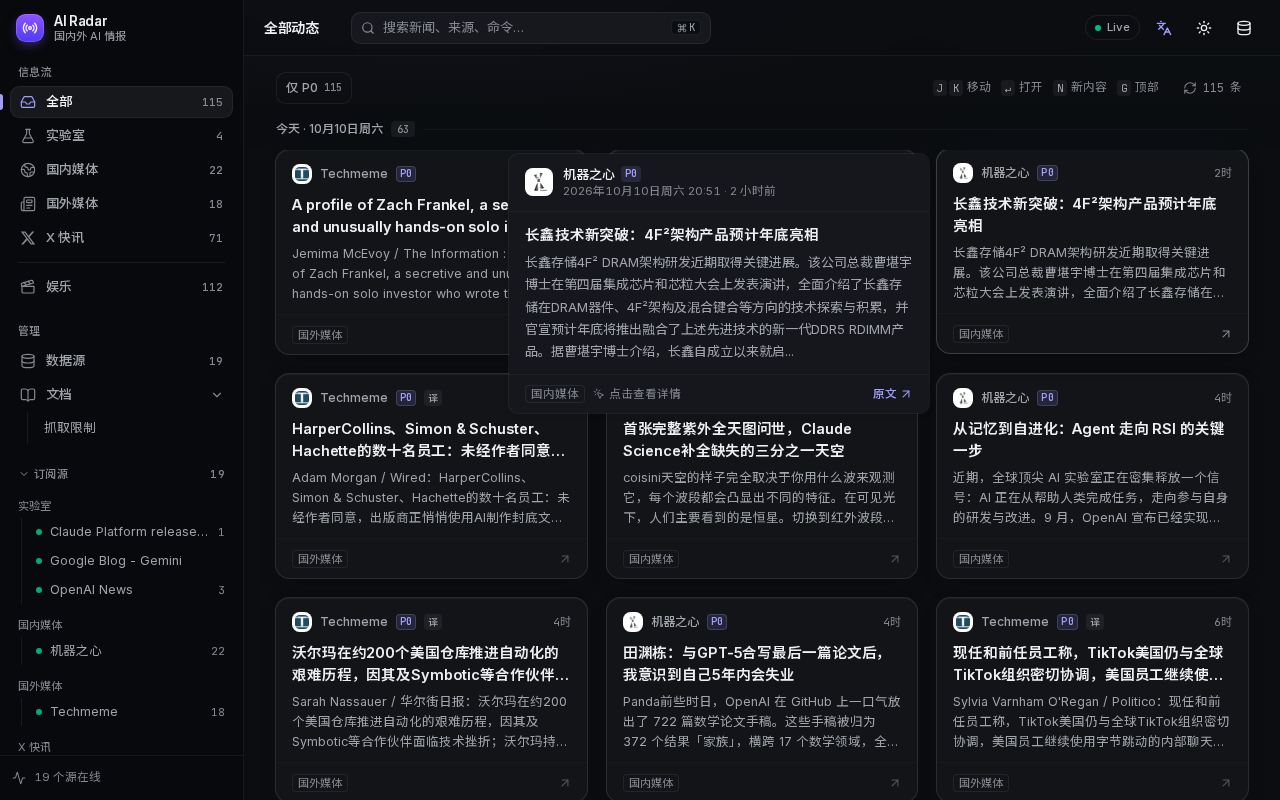
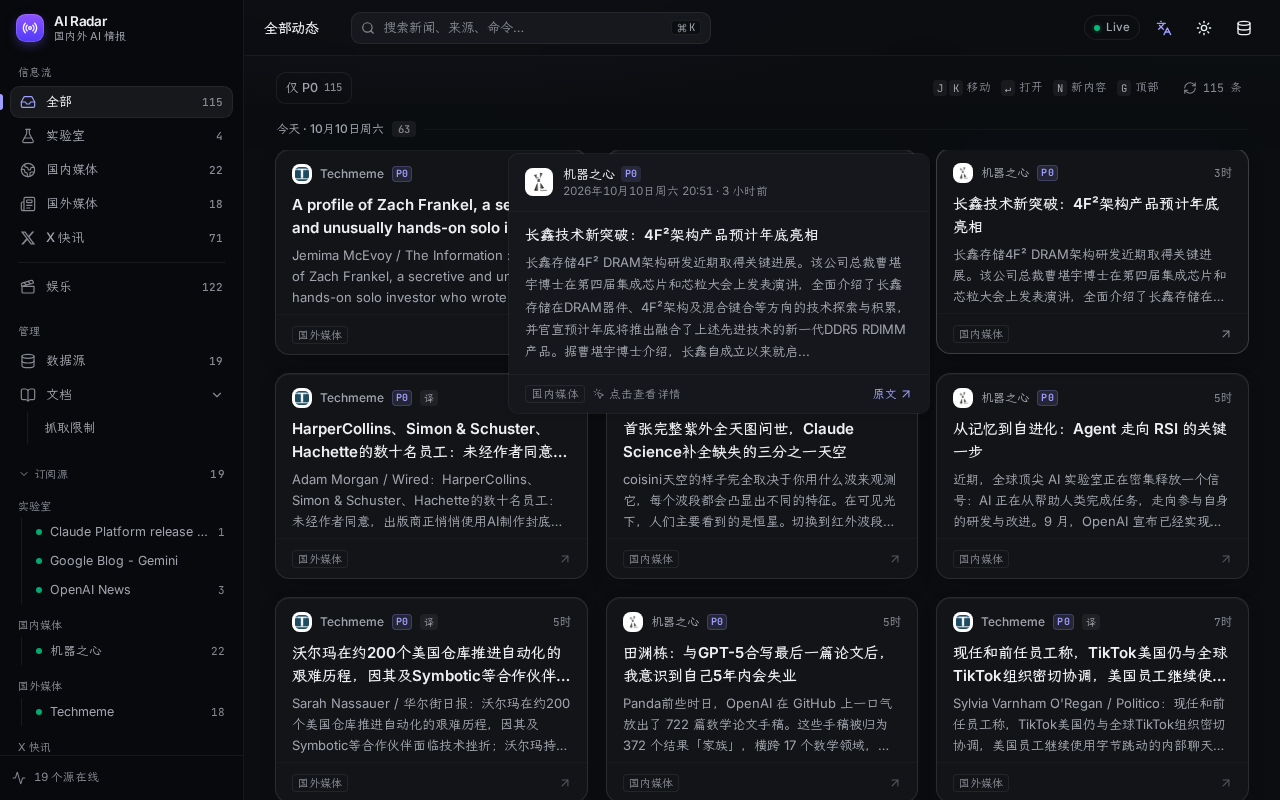
fonts: switch CJK font to 霞鹜文楷 LXGW WenKai (Regular + Medium via npm)

diff --git a/src/components/Feed.tsx b/src/components/Feed.tsx
@@ -66,17 +66,17 @@ const ItemCard = memo(function ItemCard({ it, active, fresh, read, onOpen, hover
       </div>
       <div className="min-h-0 flex-1 overflow-hidden px-4">
         {x ? (
-          <p className={cn("line-clamp-5 break-words [overflow-wrap:anywhere] text-[13.5px] leading-[1.6]", linkOnly ? "text-faint" : read ? "text-muted-foreground" : "text-foreground/90")}>
+          <p className={cn("line-clamp-5 break-words [overflow-wrap:anywhere] text-[14px] leading-[1.6]", linkOnly ? "text-faint" : read ? "text-muted-foreground" : "text-foreground/90")}>
             {linkOnly ? `分享了一个链接 · ${t.replace(/^https?:\/\/(www\.)?/, "").split("/")[0]}` : t}
           </p>
         ) : (
           <>
-            <h3 className={cn(it.image ? "line-clamp-1" : "line-clamp-2", "break-words [overflow-wrap:anywhere] [text-wrap:pretty] text-[14.5px] font-semibold leading-[1.5] tracking-[-0.008em]", read ? "font-medium text-muted-foreground" : "text-foreground")}>{it.title}</h3>
+            <h3 className={cn(it.image ? "line-clamp-1" : "line-clamp-2", "break-words [overflow-wrap:anywhere] [text-wrap:pretty] text-[15px] font-semibold leading-[1.5]", read ? "font-medium text-muted-foreground" : "text-foreground")}>{it.title}</h3>
             {it.image ? (
               // thumbnail (memes / video covers): fixed height so cards stay equal; lazy + no-referrer for hotlink-protected CDNs
               <img src={it.image} alt="" loading="lazy" decoding="async" referrerPolicy="no-referrer"
                 className="mt-2 h-[92px] w-full rounded-md bg-muted object-cover ring-1 ring-border/60" onError={(e) => { e.currentTarget.style.display = "none"; }} />
-            ) : dek && dek !== it.title && <p className="mt-1.5 line-clamp-3 break-words [overflow-wrap:anywhere] text-[12.5px] leading-[1.6] text-muted-foreground">{dek}</p>}
+            ) : dek && dek !== it.title && <p className="mt-1.5 line-clamp-3 break-words [overflow-wrap:anywhere] text-[13px] leading-[1.6] text-muted-foreground">{dek}</p>}
           </>
         )}
       </div>

diff --git a/src/app/layout.tsx b/src/app/layout.tsx
@@ -1,8 +1,9 @@
 import type { Metadata, Viewport } from "next";
-// Fonts are self-hosted from npm (@fontsource-variable, OFL-1.1) — `next build` makes no request to Google,
+// Fonts are self-hosted from npm (@fontsource-variable + lxgw-wenkai-webfont, OFL-1.1) — `next build` makes no request to Google,
 // so it works in mainland China. Each CSS ships unicode-range slices: browsers fetch only the chunks a page uses.
 import "@fontsource-variable/inter";
-import "@fontsource-variable/noto-sans-sc";
+import "lxgw-wenkai-webfont/lxgwwenkai-regular.css";
+import "lxgw-wenkai-webfont/lxgwwenkai-bold.css"; // upstream Medium, served as weight 700 (600 titles resolve to it)
 import "@fontsource-variable/jetbrains-mono";
 import AppShell from "@/components/app-shell";
 import "./globals.css";

diff --git a/src/app/globals.css b/src/app/globals.css
@@ -77,7 +77,7 @@
 
 @theme inline {
   --font-latin: "Inter Variable";
-  --font-cjk: "Noto Sans SC Variable";
+  --font-cjk: "LXGW WenKai";
   --font-mono-face: "JetBrains Mono Variable";
   --font-sans: var(--font-latin), var(--font-cjk), "PingFang SC", "Noto Sans CJK SC", "Microsoft YaHei", system-ui, sans-serif;
   --font-heading: var(--font-sans);

diff --git a/AGENTS.md b/AGENTS.md
@@ -114,7 +114,7 @@ See **docs/rate-limits.md** (or `/docs/rate-limits` in the app). Don't poll fast
 
 ## Fonts
 
-- `src/app/layout.tsx`: Inter (Latin, OFL) + Noto Sans SC 400/500/600 (CJK, OFL, `preload: false`, unicode-range slices) + JetBrains Mono (times/numbers), all via `next/font/google` (self-hosted at build). `--font-sans` = Inter → Noto Sans SC → system CJK. Do not add HarmonyOS Sans / MiSans (non-OFL licenses).
+- `src/app/layout.tsx`: Inter (Latin/numbers) + 霞鹜文楷 LXGW WenKai Regular+Medium (CJK, `lxgw-wenkai-webfont`, unicode-range slices) + JetBrains Mono (times), all imported as npm CSS. `--font-sans` = Inter → LXGW WenKai → system CJK. WenKai Medium is declared as weight 700, so `font-semibold` titles use it. Kai reads small: card title 15px, dek 13px, tweet 14px. Do not add HarmonyOS Sans / MiSans (non-OFL licenses).
 
 ## Translation (DeepSeek, optional)
 
@@ -149,10 +149,10 @@ See **docs/rate-limits.md** (or `/docs/rate-limits` in the app). Don't poll fast
 - ⌘K palette (`components/palette.tsx`, cmdk) is `next/dynamic` and mounted only after first open. Don't import `ui/command` from `app-shell.tsx` or it lands back in the main chunk.
 - framer-motion is used via `LazyMotion` + `m` (domAnimation features) in `Feed.tsx`; use `m.*`, not `motion.*`.
 - Source list refresh: structural changes arrive via the SSE `sources` event; the sidebar polls only every 60 s (sources page 15 s) for status dots, skipped while the tab is hidden.
-- Fonts: Noto Sans SC is a variable font sliced by unicode-range (~1.3 MB on a cold CJK-heavy feed, then cached immutably). It is the biggest cold-load cost; the remaining option would be falling back to system CJK fonts (visual change, not done).
+- Fonts: WenKai is the biggest cold-load cost (~2.1 MB / 41 slices on the feed, Regular+Medium; 0 B warm). Dropping Medium would roughly halve it but titles would lose weight (faux bold); the alternative is system CJK fonts.
 - Thumbnails: fixed-height box + `loading=lazy decoding=async` → CLS 0.
 - `npm ci` needs `make`/`g++` if the better-sqlite3 prebuild download fails.
 
 ## Offline-friendly build (China mainland)
-- Fonts come from `@fontsource-variable/{inter,noto-sans-sc,jetbrains-mono}` imported in `app/layout.tsx`; CSS vars `--font-latin/--font-cjk/--font-mono-face` are set in `globals.css`. Never reintroduce `next/font/google` — the build must not touch Google.
+- Fonts come from `@fontsource-variable/{inter,jetbrains-mono} + lxgw-wenkai-webfont (Regular + Medium as weight 700; semibold titles resolve to it)` imported in `app/layout.tsx`; CSS vars `--font-latin/--font-cjk/--font-mono-face` are set in `globals.css`. Never reintroduce `next/font/google` — the build must not touch Google.
 - Compose builds `ai-news-radar:local` with `pull_policy: build`; build args `NPM_REGISTRY`, `APT_MIRROR`.

diff --git a/README.md b/README.md
@@ -134,7 +134,7 @@ npm run build && npm run start -- -p 3000
 
 ## 字体
 
-界面字体：Latin 用 **Inter**，中文用 **Noto Sans SC**（400/500/600），时间与数字用 **JetBrains Mono**。三者均为 SIL Open Font License 1.1，可随 MIT 项目再分发；由 `next/font` 在构建时自托管为 woff2，中文按 unicode-range 切片按需加载。
+界面字体：西文与数字用 **Inter**，中文用 **霞鹜文楷 LXGW WenKai**（Regular + Medium），时间用 **JetBrains Mono**。均为 SIL Open Font License 1.1，可随 MIT 项目再分发；通过 npm 包（`@fontsource-variable/*`、`lxgw-wenkai-webfont`）在构建时打包为 woff2，构建不访问 Google/GitHub。中文按 unicode-range 切片按需加载：首页冷启动约 2.1 MB 字体（41 个分片），之后浏览器缓存命中为 0。
 
 ## License
 
@@ -143,7 +143,7 @@ npm run build && npm run start -- -p 3000
 ## 中国大陆构建说明
 
 - 不发布预构建镜像：`docker compose` 只在本地构建（`image: ai-news-radar:local` + `pull_policy: build`），不会去 ghcr.io 拉取。
-- 字体（Inter / Noto Sans SC / JetBrains Mono，均为 OFL-1.1）通过 npm 包 `@fontsource-variable/*` 自托管，`next build` 不访问 Google Fonts；Noto Sans SC 仍按 unicode-range 分片，浏览器只下载页面用到的字。
+- 字体（Inter（西文/数字）/ 霞鹜文楷 LXGW WenKai（中文）/ JetBrains Mono（时间），均为 OFL-1.1）通过 npm 包 `@fontsource-variable/*` 与 `lxgw-wenkai-webfont` 自托管，`next build` 不访问 Google Fonts；霞鹜文楷按 unicode-range 分片（Regular + Medium 两个字重），浏览器只下载页面用到的字。
 - 构建只需要 npm 源和 Debian apt 源，可用构建参数换国内镜像：
 
 ```bash

diff --git a/THIRD_PARTY_FONTS.md b/THIRD_PARTY_FONTS.md
@@ -1,9 +1,9 @@
 # Third-party fonts
 
-Installed from npm and bundled at build time; each package ships its full license text in `node_modules/@fontsource-variable/*/LICENSE`.
+Installed from npm and bundled at build time; each package ships its full license text in `node_modules/@fontsource-variable/*/LICENSE` / `node_modules/lxgw-wenkai-webfont/OFL.txt`.
 
 | Font | npm package | License |
 |---|---|---|
 | Inter | @fontsource-variable/inter | SIL Open Font License 1.1 |
-| Noto Sans SC | @fontsource-variable/noto-sans-sc | SIL Open Font License 1.1 |
+| 霞鹜文楷 LXGW WenKai (Regular + Medium) | lxgw-wenkai-webfont 1.7.0 (package MIT; font files OFL-1.1, see `node_modules/lxgw-wenkai-webfont/OFL.txt`) | SIL Open Font License 1.1 |
 | JetBrains Mono | @fontsource-variable/jetbrains-mono | SIL Open Font License 1.1 |
